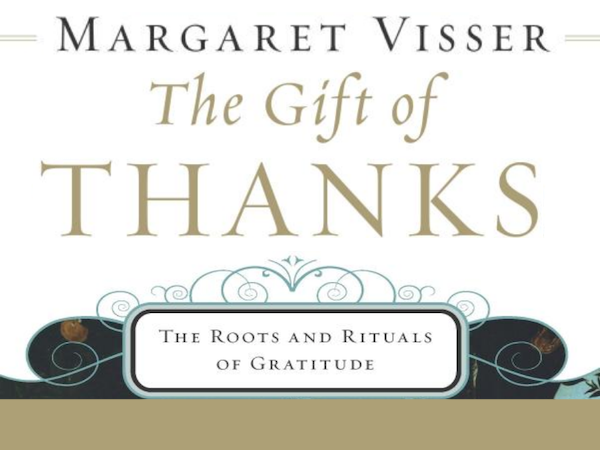
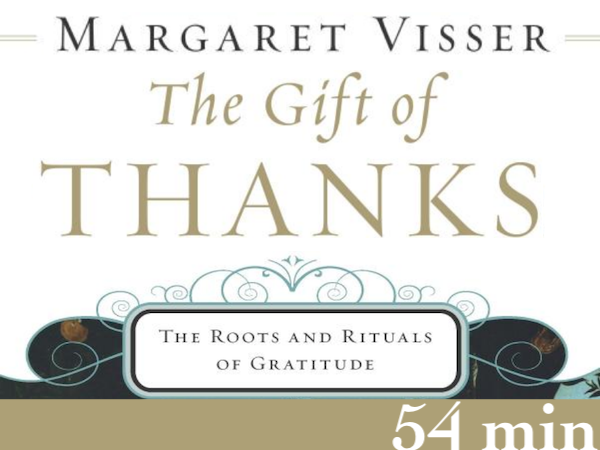
Add time length info to videos

Changed region(s): [[0.63, 0.8711, 1.0, 1.0]]

diff --git a/index.html b/index.html
@@ -29,7 +29,7 @@
   
 </head>
 <body>
-  <link rel="stylesheet" href="style.less" class="cid-rdIxrA1Ibr" id="menu1-52" data-rv-view="14270"><section class="menu cid-rdIxrA1Ibr" once="menu" id="menu1-52">
+  <link rel="stylesheet" href="style.less" class="cid-rdIxrA1Ibr" id="menu1-52" data-rv-view="42721"><section class="menu cid-rdIxrA1Ibr" once="menu" id="menu1-52">
 
     
 
@@ -69,7 +69,7 @@
     </nav>
 </section>
 
-<section class="engine"><a href="https://mobirise.info/c">free web builder</a></section><section class="mbr-section article content1 cid-rdEfqWbhjN" id="content1-4e">
+<section class="engine"><a href="https://mobirise.info/z">best html templates</a></section><section class="mbr-section article content1 cid-rdEfqWbhjN" id="content1-4e">
     
      
 
@@ -267,7 +267,7 @@
     
 
     <div class="container">
-        <div><!-- Filter --><!-- Gallery --><div class="mbr-gallery-row"><div class="mbr-gallery-layout-default"><div><div><div class="mbr-gallery-item mbr-gallery-item--p2 video-slide" data-video-url="https://www.youtube.com/watch?v=o_x2RVnlTZs" data-tags="Awesome"><div href="#lb-gallery1-70" data-slide-to="0" data-toggle="modal"><div></div><img alt="" src="assets/images/mobirise201905-032362019-0-6-0-54-58.jpg"><span class="icon-video"></span></div></div><div class="mbr-gallery-item mbr-gallery-item--p2 video-slide" data-video-url="https://www.youtube.com/watch?v=lyu7v7nWzfo" data-tags="Responsive"><div href="#lb-gallery1-70" data-slide-to="1" data-toggle="modal"><div></div><img alt="" src="assets/images/mobirise201905-032362019-0-6-0-59-30.jpg"><span class="icon-video"></span></div></div><div class="mbr-gallery-item mbr-gallery-item--p2 video-slide" data-video-url="https://www.youtube.com/watch?v=rWvmA-be3X8" data-tags="Creative"><div href="#lb-gallery1-70" data-slide-to="2" data-toggle="modal"><div></div><img alt="" src="assets/images/mobirise201905-032362019-0-6-1-37-40.jpg"><span class="icon-video"></span></div></div><div class="mbr-gallery-item mbr-gallery-item--p2 video-slide" data-video-url="https://www.youtube.com/watch?v=cmpu58yv8-g" data-tags="Animated"><div href="#lb-gallery1-70" data-slide-to="3" data-toggle="modal"><div></div><img alt="" src="assets/images/mobirise201906-112942019-0-0-12-4-37.jpg"><span class="icon-video"></span></div></div></div></div><div class="clearfix"></div></div></div><!-- Lightbox --><div data-app-prevent-settings="" class="mbr-slider modal fade carousel slide" tabindex="-1" data-keyboard="true" data-interval="false" id="lb-gallery1-70"><div class="modal-dialog"><div class="modal-content"><div class="modal-body"><div class="carousel-inner"><div class="carousel-item video-container"><img src="assets/images/gallery00.jpg" alt="" title=""></div><div class="carousel-item video-container"><img src="assets/images/gallery01.jpg" alt="" title=""></div><div class="carousel-item video-container"><img src="assets/images/gallery02.jpg" alt="" title=""></div><div class="carousel-item active video-container"><img src="assets/images/gallery03.jpg" alt="" title=""></div></div><a class="carousel-control carousel-control-prev" role="button" data-slide="prev" href="#lb-gallery1-70"><span class="mbri-left mbr-iconfont" aria-hidden="true"></span><span class="sr-only">Previous</span></a><a class="carousel-control carousel-control-next" role="button" data-slide="next" href="#lb-gallery1-70"><span class="mbri-right mbr-iconfont" aria-hidden="true"></span><span class="sr-only">Next</span></a><a class="close" href="#" role="button" data-dismiss="modal"><span class="sr-only">Close</span></a></div></div></div></div></div>
+        <div><!-- Filter --><!-- Gallery --><div class="mbr-gallery-row"><div class="mbr-gallery-layout-default"><div><div><div class="mbr-gallery-item mbr-gallery-item--p2 video-slide" data-video-url="https://www.youtube.com/watch?v=o_x2RVnlTZs" data-tags="Awesome"><div href="#lb-gallery1-70" data-slide-to="0" data-toggle="modal"><div></div><img alt="" src="assets/images/mobirise201905-032362019-0-6-0-54-58.jpg"><span class="icon-video"></span><span class="mbr-gallery-title mbr-fonts-style display-2"><strong>46 min</strong></span></div></div><div class="mbr-gallery-item mbr-gallery-item--p2 video-slide" data-video-url="https://www.youtube.com/watch?v=lyu7v7nWzfo" data-tags="Responsive"><div href="#lb-gallery1-70" data-slide-to="1" data-toggle="modal"><div></div><img alt="" src="assets/images/mobirise201905-032362019-0-6-0-59-30.jpg"><span class="icon-video"></span><span class="mbr-gallery-title mbr-fonts-style display-2"><strong>17 min</strong></span></div></div><div class="mbr-gallery-item mbr-gallery-item--p2 video-slide" data-video-url="https://www.youtube.com/watch?v=rWvmA-be3X8" data-tags="Creative"><div href="#lb-gallery1-70" data-slide-to="2" data-toggle="modal"><div></div><img alt="" src="assets/images/mobirise201905-032362019-0-6-1-37-40.jpg"><span class="icon-video"></span><span class="mbr-gallery-title mbr-fonts-style display-2"><strong>1:30 min</strong></span></div></div><div class="mbr-gallery-item mbr-gallery-item--p2 video-slide" data-video-url="https://www.youtube.com/watch?v=cmpu58yv8-g" data-tags="Animated"><div href="#lb-gallery1-70" data-slide-to="3" data-toggle="modal"><div></div><img alt="" src="assets/images/mobirise201906-112942019-0-0-12-4-37.jpg"><span class="icon-video"></span><span class="mbr-gallery-title mbr-fonts-style display-2"><strong>12 min</strong></span></div></div></div></div><div class="clearfix"></div></div></div><!-- Lightbox --><div data-app-prevent-settings="" class="mbr-slider modal fade carousel slide" tabindex="-1" data-keyboard="true" data-interval="false" id="lb-gallery1-70"><div class="modal-dialog"><div class="modal-content"><div class="modal-body"><div class="carousel-inner"><div class="carousel-item video-container"><img src="assets/images/gallery00.jpg" alt="" title=""></div><div class="carousel-item video-container"><img src="assets/images/gallery01.jpg" alt="" title=""></div><div class="carousel-item video-container"><img src="assets/images/gallery02.jpg" alt="" title=""></div><div class="carousel-item active video-container"><img src="assets/images/gallery03.jpg" alt="" title=""></div></div><a class="carousel-control carousel-control-prev" role="button" data-slide="prev" href="#lb-gallery1-70"><span class="mbri-left mbr-iconfont" aria-hidden="true"></span><span class="sr-only">Previous</span></a><a class="carousel-control carousel-control-next" role="button" data-slide="next" href="#lb-gallery1-70"><span class="mbri-right mbr-iconfont" aria-hidden="true"></span><span class="sr-only">Next</span></a><a class="close" href="#" role="button" data-dismiss="modal"><span class="sr-only">Close</span></a></div></div></div></div></div>
     </div>
 
 </section>
@@ -288,7 +288,7 @@
     
 
     <div class="container">
-        <div><!-- Filter --><!-- Gallery --><div class="mbr-gallery-row"><div class="mbr-gallery-layout-default"><div><div><div class="mbr-gallery-item mbr-gallery-item--p2 video-slide" data-video-url="https://youtu.be/7VuKfSdZWlg?t=434" data-tags="Animated"><div href="#lb-gallery1-7f" data-slide-to="0" data-toggle="modal"><div></div><img alt="" src="assets/images/mobirise201909-1043542019-0-3-15-2-7.jpg"><span class="icon-video"></span><span class="mbr-gallery-title mbr-fonts-style display-7"></span></div></div><div class="mbr-gallery-item mbr-gallery-item--p2 video-slide" data-video-url="https://youtu.be/ROnC9064Rv4?t=5260" data-tags="Animated"><div href="#lb-gallery1-7f" data-slide-to="1" data-toggle="modal"><div></div><img alt="" src="assets/images/mobirise201909-1043542019-0-3-19-19-55.jpg"><span class="icon-video"></span><span class="mbr-gallery-title mbr-fonts-style display-2"><strong>Start watching at 1:27:30</strong></span></div></div><div class="mbr-gallery-item mbr-gallery-item--p2 video-slide" data-video-url="https://www.youtube.com/watch?v=hmpVOUrLqq8" data-tags="Animated"><div href="#lb-gallery1-7f" data-slide-to="2" data-toggle="modal"><div></div><img alt="" src="assets/images/mobirise201909-1043542019-0-3-18-59-34.jpg"><span class="icon-video"></span><span class="mbr-gallery-title mbr-fonts-style display-7"></span></div></div><div class="mbr-gallery-item mbr-gallery-item--p2 video-slide" data-video-url="https://youtu.be/gRFJfFAfyyk?t=377" data-tags="Animated"><div href="#lb-gallery1-7f" data-slide-to="3" data-toggle="modal"><div></div><img alt="" src="assets/images/mobirise201909-2322142019-0-4-11-26-35.jpg"><span class="icon-video"></span><span class="mbr-gallery-title mbr-fonts-style display-2"><strong>Start watching at 0:06:10</strong></span></div></div></div></div><div class="clearfix"></div></div></div><!-- Lightbox --><div data-app-prevent-settings="" class="mbr-slider modal fade carousel slide" tabindex="-1" data-keyboard="true" data-interval="false" id="lb-gallery1-7f"><div class="modal-dialog"><div class="modal-content"><div class="modal-body"><div class="carousel-inner"><div class="carousel-item video-container"><img src="assets/images/gallery07.jpg" alt="" title=""></div><div class="carousel-item active video-container"><img src="assets/images/gallery07.jpg" alt="" title=""></div><div class="carousel-item video-container"><img src="assets/images/gallery07.jpg" alt="" title=""></div><div class="carousel-item video-container"><img src="assets/images/gallery07.jpg" alt="" title=""></div></div><a class="carousel-control carousel-control-prev" role="button" data-slide="prev" href="#lb-gallery1-7f"><span class="mbri-left mbr-iconfont" aria-hidden="true"></span><span class="sr-only">Previous</span></a><a class="carousel-control carousel-control-next" role="button" data-slide="next" href="#lb-gallery1-7f"><span class="mbri-right mbr-iconfont" aria-hidden="true"></span><span class="sr-only">Next</span></a><a class="close" href="#" role="button" data-dismiss="modal"><span class="sr-only">Close</span></a></div></div></div></div></div>
+        <div><!-- Filter --><!-- Gallery --><div class="mbr-gallery-row"><div class="mbr-gallery-layout-default"><div><div><div class="mbr-gallery-item mbr-gallery-item--p2 video-slide" data-video-url="https://youtu.be/7VuKfSdZWlg?t=356" data-tags="Animated"><div href="#lb-gallery1-7f" data-slide-to="0" data-toggle="modal"><div></div><img alt="" src="assets/images/mobirise201909-1043542019-0-3-15-2-7.jpg"><span class="icon-video"></span><span class="mbr-gallery-title mbr-fonts-style display-2"><strong>1 hour | start watching at 0:05:40</strong></span></div></div><div class="mbr-gallery-item mbr-gallery-item--p2 video-slide" data-video-url="https://youtu.be/ROnC9064Rv4?t=5270" data-tags="Animated"><div href="#lb-gallery1-7f" data-slide-to="1" data-toggle="modal"><div></div><img alt="" src="assets/images/mobirise201909-1043542019-0-3-19-19-55.jpg"><span class="icon-video"></span><span class="mbr-gallery-title mbr-fonts-style display-2"><strong>10 min | start watching at 1:27:30</strong></span></div></div><div class="mbr-gallery-item mbr-gallery-item--p2 video-slide" data-video-url="https://www.youtube.com/watch?v=hmpVOUrLqq8" data-tags="Animated"><div href="#lb-gallery1-7f" data-slide-to="2" data-toggle="modal"><div></div><img alt="" src="assets/images/mobirise201909-1043542019-0-3-18-59-34.jpg"><span class="icon-video"></span><span class="mbr-gallery-title mbr-fonts-style display-2"><strong>54 min</strong></span></div></div><div class="mbr-gallery-item mbr-gallery-item--p2 video-slide" data-video-url="https://youtu.be/gRFJfFAfyyk?t=381" data-tags="Animated"><div href="#lb-gallery1-7f" data-slide-to="3" data-toggle="modal"><div></div><img alt="" src="assets/images/mobirise201909-2322142019-0-4-11-26-35.jpg"><span class="icon-video"></span><span class="mbr-gallery-title mbr-fonts-style display-2"><strong>1 hour | start watching at 0:06:10</strong></span></div></div></div></div><div class="clearfix"></div></div></div><!-- Lightbox --><div data-app-prevent-settings="" class="mbr-slider modal fade carousel slide" tabindex="-1" data-keyboard="true" data-interval="false" id="lb-gallery1-7f"><div class="modal-dialog"><div class="modal-content"><div class="modal-body"><div class="carousel-inner"><div class="carousel-item active video-container"><img src="assets/images/gallery07.jpg" alt="" title=""></div><div class="carousel-item video-container"><img src="assets/images/gallery07.jpg" alt="" title=""></div><div class="carousel-item video-container"><img src="assets/images/gallery07.jpg" alt="" title=""></div><div class="carousel-item video-container"><img src="assets/images/gallery07.jpg" alt="" title=""></div></div><a class="carousel-control carousel-control-prev" role="button" data-slide="prev" href="#lb-gallery1-7f"><span class="mbri-left mbr-iconfont" aria-hidden="true"></span><span class="sr-only">Previous</span></a><a class="carousel-control carousel-control-next" role="button" data-slide="next" href="#lb-gallery1-7f"><span class="mbri-right mbr-iconfont" aria-hidden="true"></span><span class="sr-only">Next</span></a><a class="close" href="#" role="button" data-dismiss="modal"><span class="sr-only">Close</span></a></div></div></div></div></div>
     </div>
 
 </section>

diff --git a/assets/mobirise/css/mbr-additional.css b/assets/mobirise/css/mbr-additional.css
@@ -2090,7 +2090,7 @@ body {
   background: transparent !important;
 }
 .cid-regCSkxGOq .mbr-gallery-item > div:hover:before {
-  opacity: 0.5 !important;
+  opacity: 0.6 !important;
 }
 .cid-regCSkxGOq .mbr-gallery-title {
   font-size: .9em;
@@ -2111,9 +2111,13 @@ body {
   z-index: -1;
   position: absolute;
   background: #000000 !important;
-  opacity: 0.5;
+  opacity: 0.6;
   -webkit-transition: 0.2s background ease-in-out;
   transition: 0.2s background ease-in-out;
+}
+.cid-regCSkxGOq .mbr-gallery-item > div > span {
+  text-align: right;
+  padding: 0rem;
 }
 .cid-regCZxc53I {
   padding-top: 0px;
@@ -2165,7 +2169,7 @@ body {
   background: transparent !important;
 }
 .cid-reDIay7aYy .mbr-gallery-item > div:hover:before {
-  opacity: 0.6 !important;
+  opacity: 0.8 !important;
 }
 .cid-reDIay7aYy .mbr-gallery-title {
   font-size: .9em;
@@ -2186,7 +2190,7 @@ body {
   z-index: -1;
   position: absolute;
   background: #000000 !important;
-  opacity: 0.6;
+  opacity: 0.8;
   -webkit-transition: 0.2s background ease-in-out;
   transition: 0.2s background ease-in-out;
 }

diff --git a/page5.html b/page5.html
@@ -27,7 +27,7 @@
   
 </head>
 <body>
-  <link rel="stylesheet" href="style.less" class="cid-rdKnRHOPKf" id="menu1-5z" data-rv-view="15749"><section class="menu cid-rdKnRHOPKf" once="menu" id="menu1-5z">
+  <link rel="stylesheet" href="style.less" class="cid-rdKnRHOPKf" id="menu1-5z" data-rv-view="44200"><section class="menu cid-rdKnRHOPKf" once="menu" id="menu1-5z">
 
     
 

diff --git a/page2.html b/page2.html
@@ -64,7 +64,7 @@
     </nav>
 </section>
 
-<section class="engine"><a href="https://mobirise.info/x">free css templates</a></section><section once="" class="cid-qCrRZE6qjk mbr-reveal" id="footer7-2w">
+<section class="engine"><a href="https://mobirise.info/k">develop your own website</a></section><section once="" class="cid-qCrRZE6qjk mbr-reveal" id="footer7-2w">
 
     
 

diff --git a/page1.html b/page1.html
@@ -64,7 +64,7 @@
     </nav>
 </section>
 
-<section class="engine"><a href="https://mobirise.info/l">free website templates</a></section><section once="" class="cid-qCrRZE6qjk mbr-reveal" id="footer7-2c">
+<section class="engine"><a href="https://mobirise.info">Mobirise</a></section><section once="" class="cid-qCrRZE6qjk mbr-reveal" id="footer7-2c">
 
     
 
